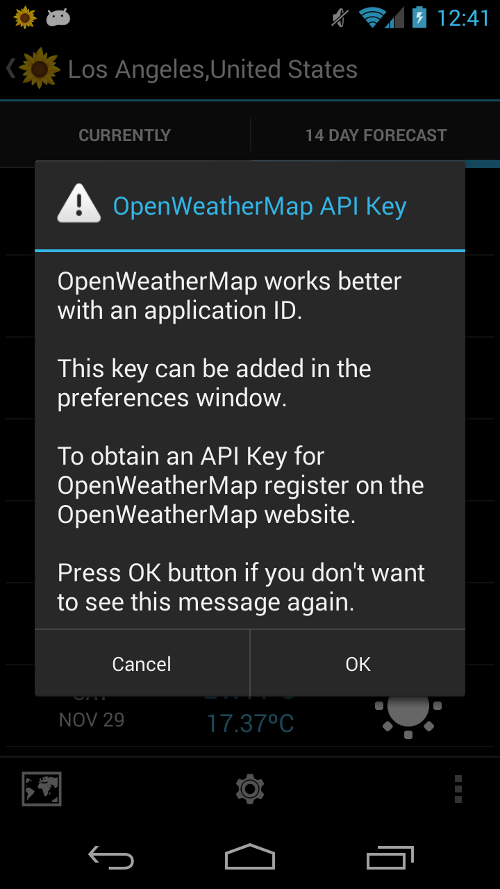
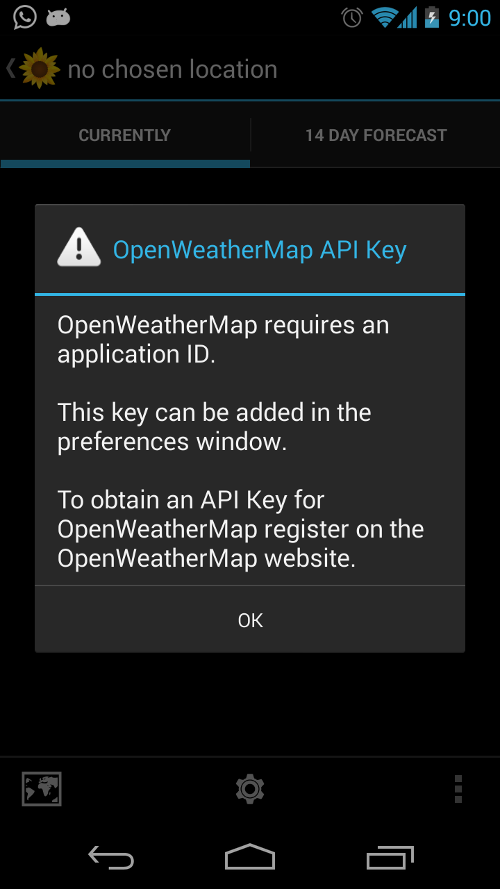
OpenWeatherMap requires an Application ID

diff --git a/README.md b/README.md
@@ -86,7 +86,7 @@ From the settings window you can enable or disable notifications. When notificat
 
 ## Notice about missing OpenWeatherMap application ID
 
-Even if OpenWeatherMap can work without it, the OpenWeatherMap maintainers recommend to use an [API key](http://openweathermap.org/appid). Weather Information will show you a warning message when you do not have an API key. If you do not want to be bothered again with this message, just press the *OK* button and the warning popup will be dismissed forever.
+OpenWeatherMap requires an [API key](http://openweathermap.org/appid). Weather Information will show you a warning message when you do not have one.
 
 ![missing_app_key](screenshots/missing_app_key.png)
 
